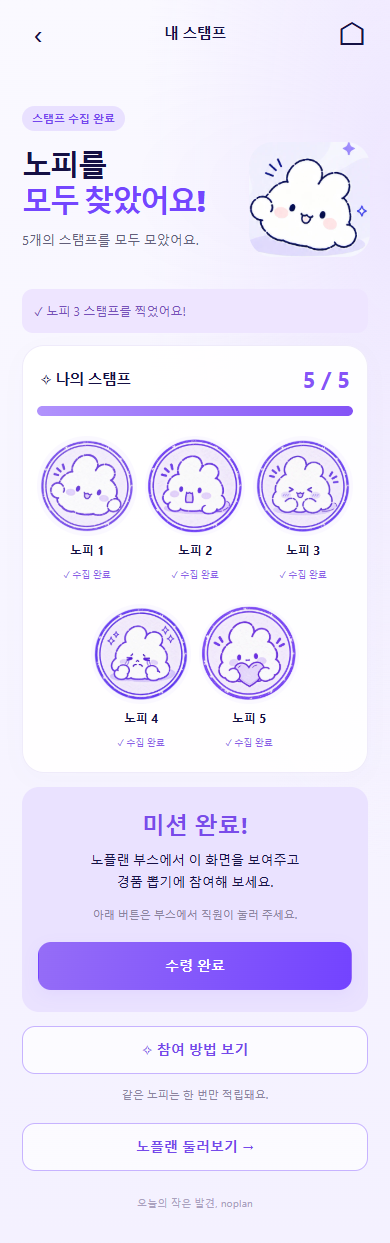
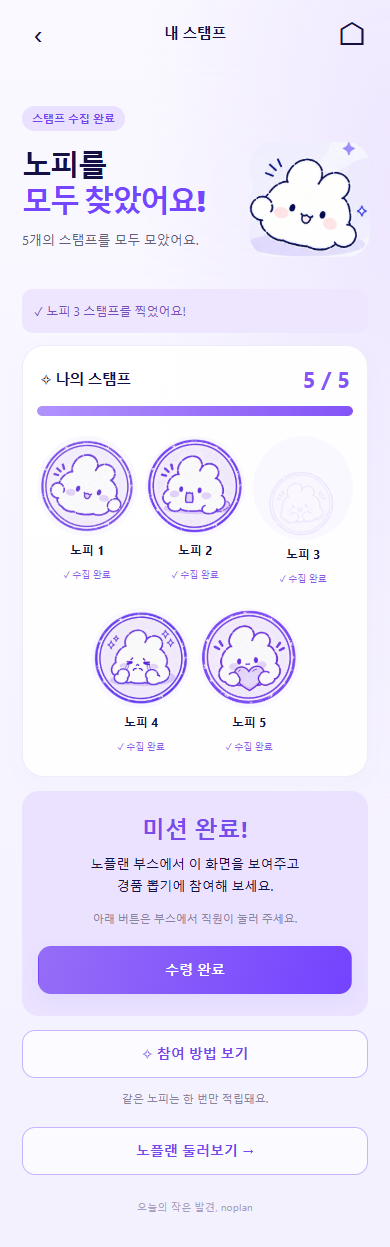
노플랜 이벤트 수정

diff --git a/src/features/stampEvent/StampEventPage.tsx b/src/features/stampEvent/StampEventPage.tsx
@@ -6,6 +6,7 @@ import { ROUTES } from '../../routes';
 import { EventDialog } from './EventDialog';
 import { EventGuide } from './EventGuide';
 import { EventScanner } from './EventScanner';
+import { StampArrival } from './StampArrival';
 import { STAMP_IDS, stampImage } from './eventModel';
 import './stampEvent.css';
 
@@ -19,6 +20,8 @@ export function StampEventPage({ user }: { user: UserSession | null }) {
   const [error, setError] = useState('');
   const [busy, setBusy] = useState(false);
   const [reload, setReload] = useState(0);
+  // Kept only in this mounted page, never in history/storage: refreshes cannot replay it.
+  const [newStamp, setNewStamp] = useState<number | null>(null);
   const [modal, setModal] = useState<'start' | 'guide' | 'scan' | null>(null);
   const notice = (location.state as { stampNotice?: string } | null)?.stampNotice;
 
@@ -26,9 +29,11 @@ export function StampEventPage({ user }: { user: UserSession | null }) {
     if (!isCard || invalid) return;
     let cancelled = false;
     setBusy(true); setError('');
+    if (id) setNewStamp(null);
     enterStampCard(user?.userId || 'guest', id ? Number(id) : undefined).then(result => {
       if (cancelled) return;
       setState(result);
+      if (id && !result.alreadyCollected) setNewStamp(Number(id));
       if (id) navigate('/event/stamps', { replace: true, state: { stampNotice: result.alreadyCollected ? '이미 만난 노피예요. 다른 노피를 찾아보세요!' : `노피 ${id} 스탬프를 찍었어요!` } });
     }).catch(cause => { if (!cancelled) setError(cause instanceof Error ? cause.message : '스탬프를 불러오지 못했어요.'); })
       .finally(() => { if (!cancelled) setBusy(false); });
@@ -82,7 +87,7 @@ export function StampEventPage({ user }: { user: UserSession | null }) {
             <section className="ne-panel ne-stamp-card" aria-label="나의 스탬프">
               <header><h2>✧ 나의 스탬프</h2><strong>{count} / 5</strong></header>
               <progress max={5} value={count} aria-label={`스탬프 ${count}개 수집`} />
-              <div className="ne-stamp-grid">{STAMP_IDS.map(stamp => { const collected = state.stamps.includes(stamp); return <div key={stamp} className={`ne-stamp ${collected ? 'collected' : ''}`}><div className="ne-stamp-circle">{collected ? <img src={stampImage(stamp)} alt={`노피 ${stamp} 스탬프`} /> : <span aria-hidden="true">?</span>}</div><strong>노피 {stamp}</strong><small>{collected ? '✓ 수집 완료' : '아직 못 만났어요'}</small></div>; })}</div>
+              <div className="ne-stamp-grid">{STAMP_IDS.map(stamp => { const collected = state.stamps.includes(stamp); return <div key={stamp} className={`ne-stamp ${collected ? 'collected' : ''}`}><div className="ne-stamp-circle">{collected ? newStamp === stamp && !id && !busy ? <StampArrival id={stamp} onFinish={() => setNewStamp(null)} /> : <img src={stampImage(stamp)} alt={`노피 ${stamp} 스탬프`} /> : <span aria-hidden="true">?</span>}</div><strong>노피 {stamp}</strong><small>{collected ? '✓ 수집 완료' : '아직 못 만났어요'}</small></div>; })}</div>
             </section>
             {complete ? <section className={`ne-completion ${redeemed ? 'redeemed' : ''}`}>
               <h2>{redeemed ? '경품 수령을 완료했어요!' : '미션 완료!'}</h2>

diff --git a/src/features/stampEvent/stampEvent.css b/src/features/stampEvent/stampEvent.css
@@ -46,3 +46,17 @@
 .ne-invalid h1{font-size:23px}.ne-invalid p{font-size:14px;margin:18px 0;line-height:1.7}
 @media(min-width:1024px){.trip-home>.ne-banner{max-width:600px;margin:28px auto}.nopi-event-page{margin-top:20px;margin-bottom:20px;border-radius:26px;overflow:hidden;min-height:calc(100dvh - 40px)}}
 @media(max-width:360px){.ne-content{padding-inline:16px}.ne-hero h1{font-size:28px}.ne-card-hero h1{font-size:26px}.ne-hero-art{width:42%}.ne-guide h3{font-size:20px}.ne-guide>p{font-size:12px}.ne-banner{padding:20px}}
+.ne-arrival{position:relative;width:100%;height:100%;isolation:isolate}
+.ne-arrival>img{opacity:0;transform-origin:50% 75%}
+.ne-arrival-ready>img{animation:ne-nopi-arrive 1100ms both}
+.ne-arrival-sparkles{position:absolute;inset:0;pointer-events:none}
+.ne-arrival-sparkles i{position:absolute;left:50%;top:50%;font-style:normal;font-size:19px;color:#a17af9;opacity:0;line-height:1;--x:-47px;--y:-38px;--turn:-18deg}
+.ne-arrival-sparkles i:nth-child(2){--x:38px;--y:-43px;--turn:22deg;color:#cfacf9;font-size:24px}
+.ne-arrival-sparkles i:nth-child(3){--x:48px;--y:8px;--turn:14deg;color:#eda7cf;font-size:12px}
+.ne-arrival-sparkles i:nth-child(4){--x:-40px;--y:30px;--turn:-10deg;color:#c2a3f7;font-size:14px}
+.ne-arrival-sparkles i:nth-child(5){--x:13px;--y:-53px;--turn:0deg;color:#f3ca75;font-size:21px}
+.ne-arrival-sparkles i:nth-child(6){--x:30px;--y:40px;--turn:0deg;color:#b8a2f0;font-size:17px}
+.ne-arrival-ready .ne-arrival-sparkles i{animation:ne-nopi-sparkle 850ms 140ms both}
+@keyframes ne-nopi-arrive{0%{opacity:0;transform:translateY(9px) scale(.65) rotate(-7deg)}28%{opacity:1;transform:translateY(-5px) scale(1.1) rotate(4deg)}48%{transform:translateY(2px) scale(.97,1.03) rotate(-2deg)}68%{transform:translateY(-2px) scale(1.025) rotate(1deg)}85%,100%{opacity:1;transform:translateY(0) scale(1) rotate(0)}}
+@keyframes ne-nopi-sparkle{0%{opacity:0;transform:translate(-50%,-50%) scale(.25)}28%{opacity:1}70%{opacity:.8}100%{opacity:0;transform:translate(calc(-50% + var(--x)),calc(-50% + var(--y))) scale(1) rotate(var(--turn))}}
+@media(prefers-reduced-motion:reduce){.ne-arrival-ready>img{animation:ne-nopi-arrive 1ms both}.ne-arrival-ready .ne-arrival-sparkles{display:none}}

diff --git a/src/features/stampEvent/StampArrival.tsx b/src/features/stampEvent/StampArrival.tsx
@@ -1,0 +1,11 @@
+import { useState } from 'react';
+import { stampImage } from './eventModel';
+
+export function StampArrival({ id, onFinish }: { id: number; onFinish: () => void }) {
+  const [ready, setReady] = useState(false);
+  return <div className={`ne-arrival ${ready ? 'ne-arrival-ready' : ''}`}>
+    <img src={stampImage(id)} alt={`노피 ${id} 스탬프`} onLoad={() => setReady(true)} onError={onFinish}
+      onAnimationEnd={event => { if (event.animationName === 'ne-nopi-arrive') onFinish(); }} />
+    <div className="ne-arrival-sparkles" aria-hidden="true"><i>✦</i><i>✧</i><i>♥</i><i>✦</i><i>•</i><i>•</i></div>
+  </div>;
+}
